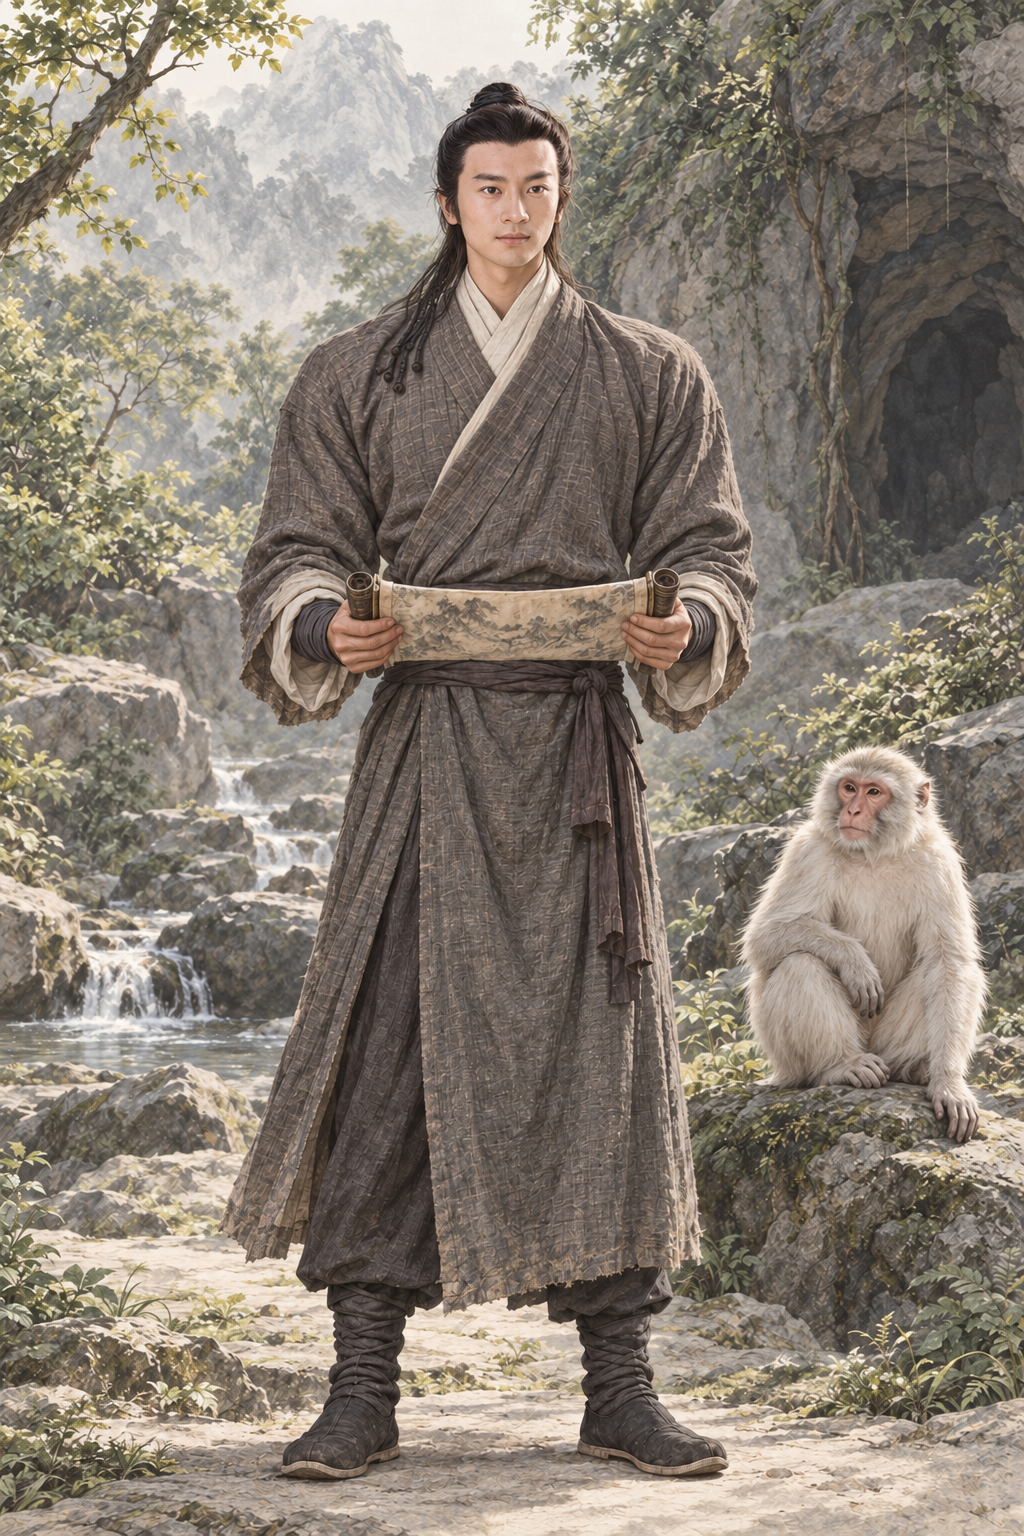
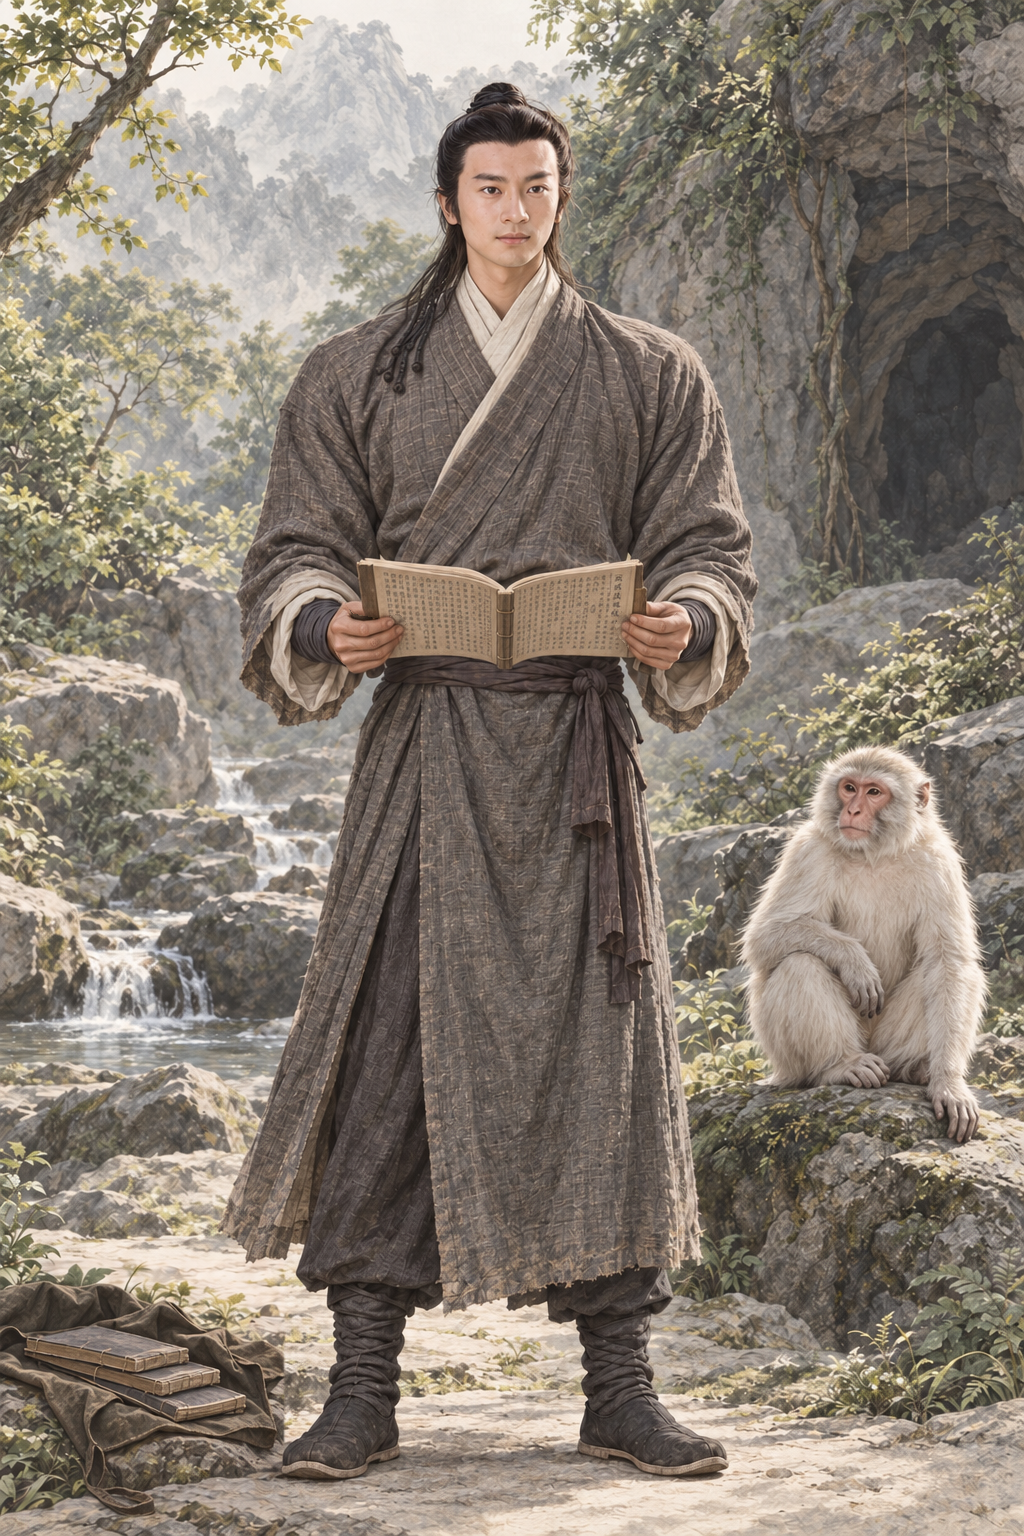
assets: AR-82 原著核对返修 张无忌九阳山水卷改四薄经书
原著摘句已同步提示词；已打开验图；蒙版外0像素变化。

Executed-By: Codex gpt-6.1-sol（AR-82）

Changed region(s): [[0.0, 0.8125, 0.2812, 1.0], [0.3125, 0.3438, 0.6875, 0.4375]]

diff --git a/assets/default/prompts/characters/ch04-yitian/npc_zhangwuji__scene_jiuyang.md b/assets/default/prompts/characters/ch04-yitian/npc_zhangwuji__scene_jiuyang.md
@@ -126,3 +126,8 @@ Create a premium REALISTIC Chinese wuxia character illustration with a delicate 
 - 采用作者授权宽松自查；偏差如实记录，candidate不代表approved。
 - 源PNG通常为1024×1536 RGB；其他原生2:3尺寸如实登记，原字节保存，不裁切、重编码、放大或去除溯源。
 - 完整请求、实际参考哈希及旧版本备份见 `.agents/coord/portrait-generation/realism-20261001/por_npc_zhangwuji__ch04_youth_scene_jiuyang.prepared.json`。
+
+## 原著依据
+
+- 《倚天屠龙记》十六 剥极而复参九阳：“四本薄薄的经书”；https://www.xuges.com/wuxia/jinyong/yttlj/112.htm
+- AR-82 返修约束（本节优先于历史提示词）：只将双手捧着的山水卷轴改成一本打开的薄经书，经页为异文中夹蝇头汉字的小字，不画山水。旁边近地的石头上放另三本薄经书与打开油布包，总共四本。脸、体格、衣服、手指、白猿、风景保持原样。
